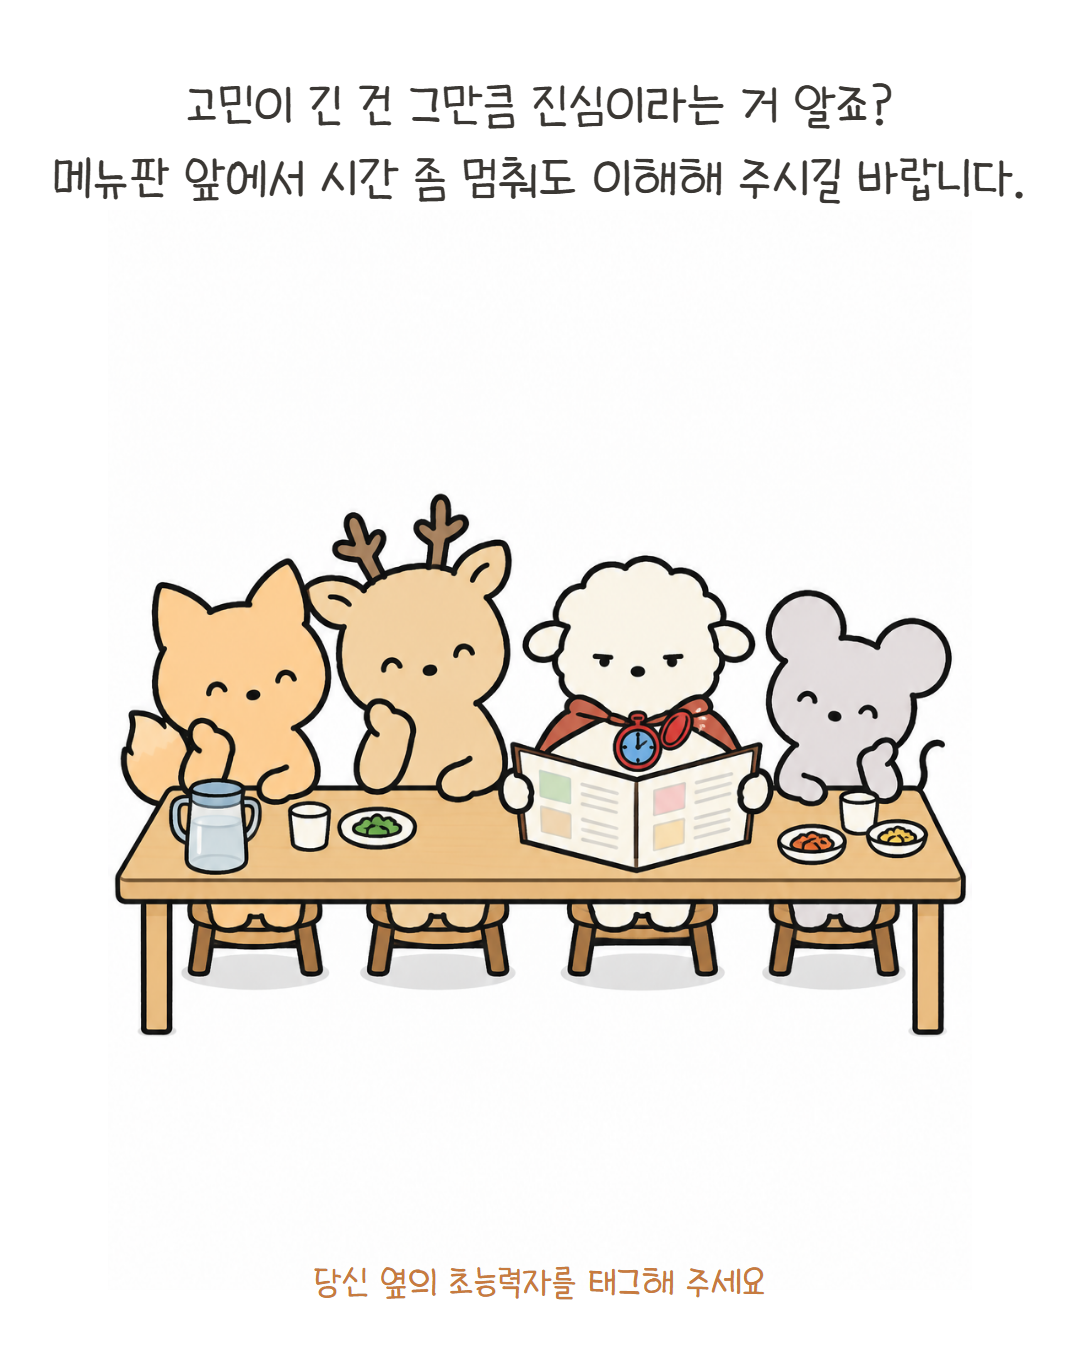
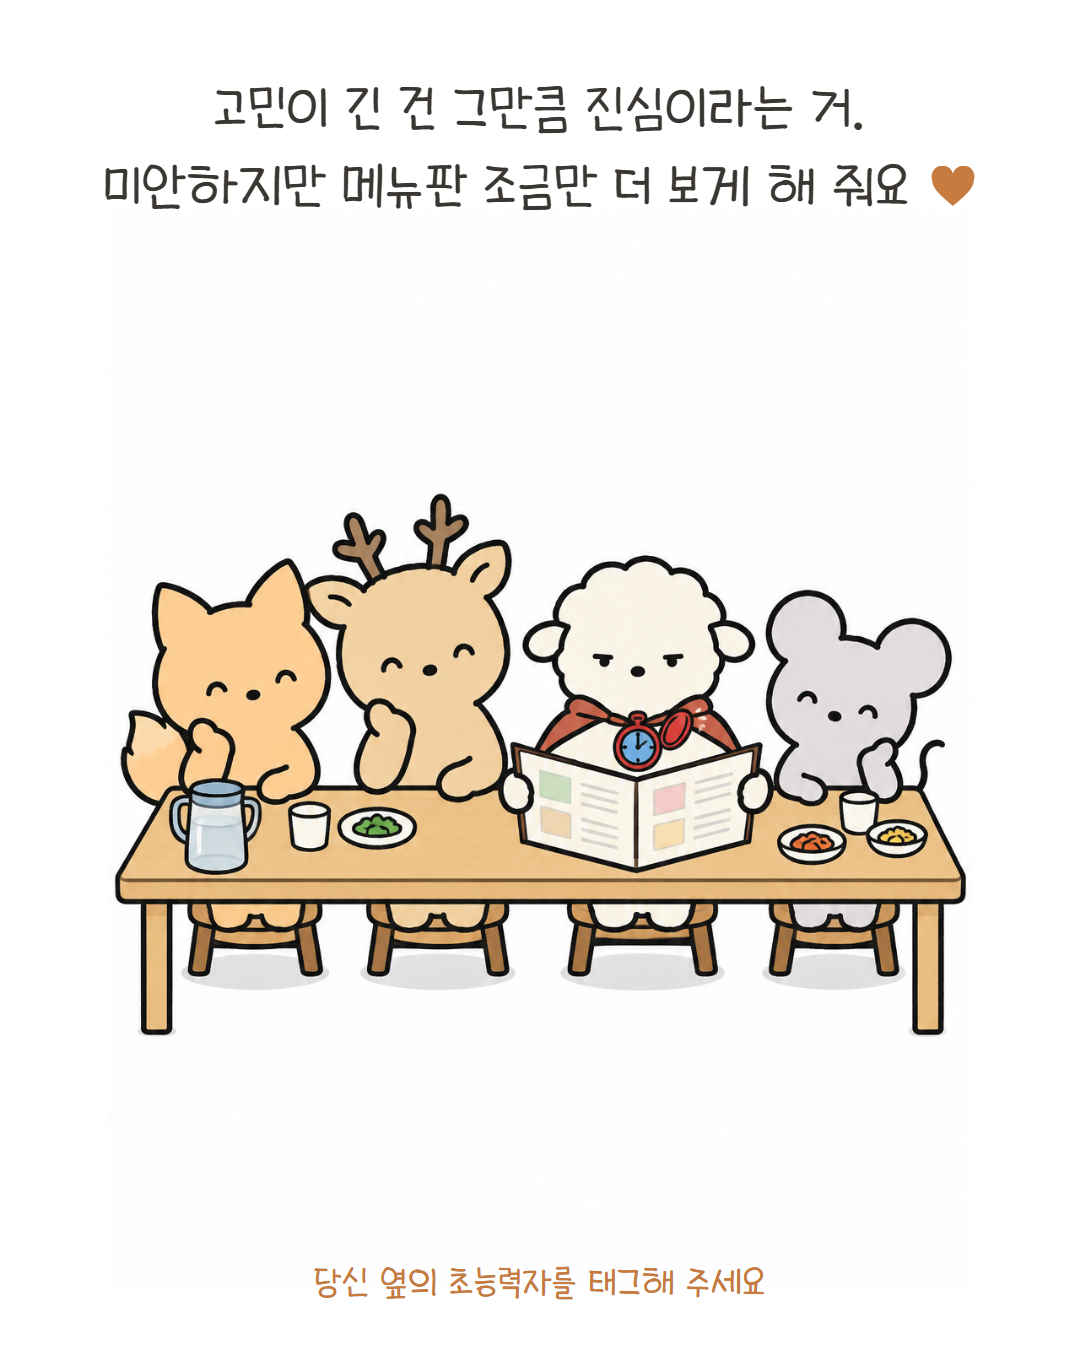
EP.04 7컷 내레이션 수정 (하트는 테라코타 SVG로 합성)

Changed region(s): [[0.0306, 0.0622, 0.9472, 0.1556]]

diff --git a/episodes/ep04/compose.html b/episodes/ep04/compose.html
@@ -18,6 +18,7 @@
   .narr{position:absolute;top:70px;left:50px;right:50px;text-align:center;font-size:56px;line-height:1.4;white-space:pre}
   .mind{position:absolute;font-size:40px;line-height:1.35;color:var(--gray);white-space:pre-line}
   .mind.s{font-size:30px}
+  .narr .heart{display:inline-block;vertical-align:-6px;margin-left:4px}
   .cta{position:absolute;left:70px;right:70px;bottom:44px;text-align:center;font-size:38px;color:var(--point)}
   .dim img.art{filter:saturate(.7)}
 </style>
@@ -80,8 +81,8 @@
 
 <section id="s7">
   <img class="art" src="img/cut7.png" alt="">
-  <div class="narr">고민이 긴 건 그만큼 진심이라는 거 알죠?
-메뉴판 앞에서 시간 좀 멈춰도 이해해 주시길 바랍니다.</div>
+  <div class="narr">고민이 긴 건 그만큼 진심이라는 거.
+미안하지만 메뉴판 조금만 더 보게 해 줘요 <svg class="heart" viewBox="0 0 24 22" width="46" height="42"><path d="M12 21 C6 16 1 12 1 7 A5 5 0 0 1 12 4 A5 5 0 0 1 23 7 C23 12 18 16 12 21 Z" fill="#C77B3F"/></svg></div>
   <div class="cta">당신 옆의 초능력자를 태그해 주세요</div>
 </section>
 

diff --git a/episodes/ep04/conti.md b/episodes/ep04/conti.md
@@ -13,7 +13,7 @@
 | 4 | **공유 컷.** 1컷과 같은 테이블, 반전. 두부만 회색으로 굳은 채 메뉴판 첫 장을 들고 있고, 두부와 메뉴판 사이에 거미줄. 나머지는 컬러로 바쁘게 움직임 — 점원은 미숙 쪽으로 몸을 돌려 주문을 받고, 미숙은 손가락으로 메뉴를 가리키며 주문 중, 콩은 이미 반찬을 집어 먹고, 덕수는 물을 마심. 저채도 | 사실 이 능력으론 / 나 말곤 아무도 멈출 수 없다! | 미숙: 얘는 두고 먼저 시킬게요 · 콩: 누나 또 시작이다 · 감정: 두부 거미줄 · 구도: 두부 크게 앞(3/4 뒤에서) + 가족 멀리 |
 | 5 | 같은 테이블. 미숙·덕수·콩 셋 다 배를 움켜쥐고 눈물 줄기를 흘리며 욺. 두부는 전혀 신경 쓰지 않고 메뉴판에 열중 — 동그란 안경을 쓰고 형광펜으로 메뉴판에 밑줄, 메뉴판에 붙은 포스트잇 여러 장, 옆에 펼친 노트 | 일행들 배에서 꼬르륵 소리가 날 때까지 / 나는 아직 메뉴판 학습 중이고 | 라벨: 미숙·덕수·콩 배 옆 "꼬르륵" 3개 · 콩: 누나 제발 · 감정: 가족 눈물 · 구도: 정면 |
 | 6 | 음식 도착. 두부 앞엔 겨우 고른 짜장면, 옆자리 콩 앞엔 짬뽕. 콩은 눈을 호로 뜨고 신나게 먹는 중. 두부는 젓가락을 든 채 고개만 돌려 콩의 짬뽕을 곁눈질 | 겨우 고른 뒤에는 / 남의 그릇에서 눈을 떼지 못한다. | 두부: 저거 시킬 걸... · 감정: 두부 얼굴 세로 그늘선 · 구도: 낮은 앵글, 그릇 크게 앞 |
-| 7 | 망토 + 회중시계 두부가 식당 테이블 가운데 앉아 메뉴판을 두 손으로 활짝 펼치고 정면(독자)을 봄. 양옆 미숙·덕수·콩은 턱을 괴고 편안히 기다림 (재촉 없음). 회중시계 뚜껑에 반사광 | 고민이 긴 건 그만큼 진심이라는 거 알죠? / 메뉴판 앞에서 시간 좀 멈춰도 이해해 주시길 바랍니다. | CTA: 당신 옆의 초능력자를 태그해 주세요 · 감정: 없음 (눈 일자) · 구도: 정면 |
+| 7 | 망토 + 회중시계 두부가 식당 테이블 가운데 앉아 메뉴판을 두 손으로 활짝 펼치고 정면(독자)을 봄. 양옆 미숙·덕수·콩은 턱을 괴고 편안히 기다림 (재촉 없음). 회중시계 뚜껑에 반사광 | 고민이 긴 건 그만큼 진심이라는 거. / 미안하지만 메뉴판 조금만 더 보게 해 줘요 (테라코타 하트, 합성) | CTA: 당신 옆의 초능력자를 태그해 주세요 · 감정: 없음 (눈 일자) · 구도: 정면 |
 
 구도: 표지 정면 · 1 하이앵글 · 2 클로즈업 · 3 측면 · 4 전경/후경 · 5 정면 · 6 로우앵글 · 7 정면 (정면 3컷, 연속 없음). 모든 컷에서 캐릭터는 의자에 앉음.
 
